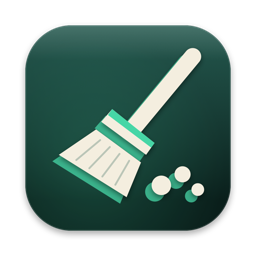
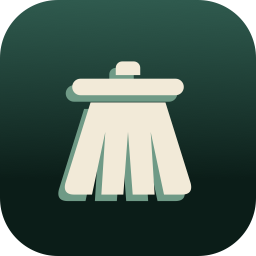
Trash-broom mark from one SVG master; README in the site's style
assets/logo.svg (a gradient plate, a cream trash-broom glyph and one flat depth
layer) and assets/menubar.svg are the masters; scripts/icons.swift builds the app
icon, the in-app mark, the menu-bar template and the site icons from them, with
two alternate palettes a one-line swap away.

diff --git a/details.html b/details.html
@@ -6,6 +6,7 @@
 <title>Mac Janitor: how it works</title>
 <meta name="description" content="A menu-bar app that clears old worktrees, node_modules, build output, caches and the Trash. You see every item before anything goes.">
 <meta name="theme-color" content="#0b1513">
+<link rel="icon" type="image/svg+xml" href="assets/logo.svg">
 <link rel="icon" type="image/png" href="assets/favicon.png">
 <link rel="apple-touch-icon" href="assets/icon-256.png">
 <link rel="preconnect" href="https://fonts.googleapis.com">
@@ -15,7 +16,7 @@
 </head>
 <body>
 <header class="nav wrap">
-  <a class="brand" href="./"><img src="assets/icon-256.png" alt="" width="32" height="32">Mac Janitor</a>
+  <a class="brand" href="./"><img src="assets/logo.svg" alt="" width="32" height="32">Mac Janitor</a>
   <nav class="links">
     <a href="#cleans">What it cleans</a>
     <a href="#access">Permissions</a>
@@ -98,7 +99,7 @@
 </main>
 
 <footer class="foot wrap">
-  <span class="brand small"><img src="assets/icon-256.png" alt="" width="20" height="20">Mac Janitor</span>
+  <span class="brand small"><img src="assets/logo.svg" alt="" width="20" height="20">Mac Janitor</span>
   <a href="https://github.com/blazejkustra/Mac-Janitor">Source on GitHub</a>
   <span>macOS 13 or later</span>
   <span class="credits">Footage: sea and sailboat by dubassy (Mixkit), dandelion by ArtHouse Studio (Pexels), moon by Noel McShane (Pexels)</span>

diff --git a/index.html b/index.html
@@ -6,6 +6,7 @@
 <title>Mac Janitor: disk space back from your dev tools</title>
 <meta name="description" content="A menu-bar app that clears old worktrees, node_modules, build output, caches and the Trash. You see every item before anything goes.">
 <meta name="theme-color" content="#07120f">
+<link rel="icon" type="image/svg+xml" href="assets/logo.svg">
 <link rel="icon" type="image/png" href="assets/favicon.png">
 <link rel="apple-touch-icon" href="assets/icon-256.png">
 <link rel="preconnect" href="https://fonts.googleapis.com">
@@ -20,7 +21,7 @@
   </div>
 
   <section class="card" aria-labelledby="title">
-    <img class="mark" src="assets/icon-256.png" width="72" height="72" alt="Mac Janitor icon">
+    <img class="mark" src="assets/logo.svg" width="72" height="72" alt="Mac Janitor icon">
     <h1 id="title">Disk space back from your dev tools.</h1>
     <p class="lede">Old worktrees, node_modules, build output and caches, cleared from the menu bar. You see every item first.</p>
     <div class="ctas">
